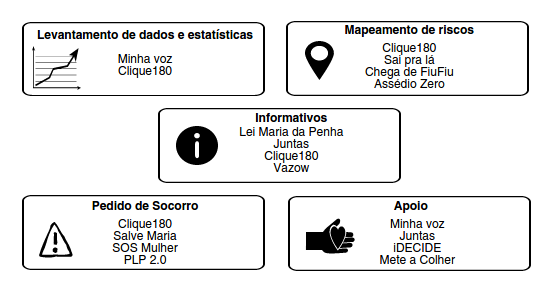
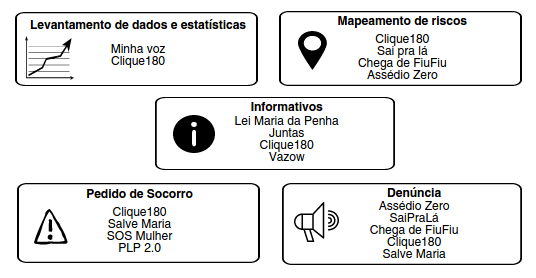
Adicionando capitulo sistemas relacionados

Changed region(s): [[0.0299, 0.0288, 0.9851, 0.9784]]

diff --git a/editaveis/sistemas_relacionados.tex b/editaveis/sistemas_relacionados.tex
@@ -1,0 +1,120 @@
+\chapter{Sistemas relacionados}
+
+Em uma geração dirigida pela tecnologia e engajamento em causas sociais é possível perceber que várias aplicações têm sido criadas em todo o mundo no cenário da violência contra a mulher.
+
+No Brasil, alguns aplicativos e sites surgiram como consequência de políticas públicas. Como o site Minha Voz \footnote{Minha Voz \url{http://minhavoz.com}} e os aplicativos Clique180, SalveMaria, SOSMulher e Lei Maria da Penha.
+
+Outros aplicativos e sites foram criados pela própria população, como: Vazow, Juntas, Chega de Fiufiu, 
+SaiPraLá, PLP 2.0, Assédio Zero e Mete a Colher.
+
+\section*{Minha Voz}
+
+Site criado no \textit{Hackathon} de Gênero e Cidadania, no qual
+um dos temas era "Violência Contra a Mulher". 
+
+De acordo com a documentação do site (disponível no GitHub\footnote{Repositório Minha Voz \url{https://github.com/saletefarias/Minha-Voz}}), o objetivo é ter um fórum para apoio às mulheres, no qual elas podem
+realizar desabafos e obter um panorama da violência contra a mulher através de um questionário
+disponível no site relacionando os dados por:
+
+\begin{itemize}
+	\item Categorias;
+	\item Locais;
+	\item Grau de Proximidade com o agressor;
+	\item Tempo de duração da violência;
+	\item Data.
+\end{itemize}
+
+O site também disponibiliza um questionário para que a mulher possa identificar a categoria (tipo) da violência sofrida, respondendo à perguntas pré-definidas com "Sim" ou "Não". Esse questionário é construído baseado em uma árvore de decisão.
+
+\vfill
+
+\section*{Clique180}
+
+Trata-se de um aplicativo para \textit{Android} criado pelo Onu Mulheres que, de acordo com
+a página de download\footnote{Clique180 \url{https://play.google.com/store/apps/details?id=br.com.negociosreais.sosmulher&hl=pt_BR}}, oferece:
+
+\begin{itemize}
+	\item Leis e conceitos;
+	\item Localização Rotas até os serviços da rede de atendimento às mulheres;
+	\item Botão para ligação para o 180;
+	\item Dicas de ações a serem tomadas e tipos de serviços a procurar; 
+	\item Mapeamento de locais de risco.
+\end{itemize}
+
+\section*{SalveMaria}
+
+Criado pelo governo do estado do Piauí, o SalveMaria\footnote{SalveMaria \url{https://play.google.com/store/apps/details?id=br.gov.pi.ati.salvemaria&hl=pt_BR}} é um aplicativo para envio de denúncias
+de forma sigilosa, informando o tipo de assédio sofrido.
+Além disso, conta com um Botão do Pânico que envia um pedido de socorro automaticamente para a polícia.
+
+\section*{SOSMulher}
+
+Aplicativo, criado pelo governo do estado do Pará, para mulheres que estão sob medida protetiva. 
+De acordo com notícia publicada\footnote{SOSMulher \url{http://g1.globo.com/pa/para/noticia/2016/03/aplicativo-sos-mulher-aciona-ajuda-em-caso-de-violencia-no-pa.html}}, o aplicativo é instalado no \textit{smartphone}, e quando a mulher está em situação de risco, por meio de três toques no aparelho, são enviadas notificações para a Central da Guarda Municipal.
+
+\section*{Lei Maria da Penha}
+
+Criado pelo Programa internacional de promoção da igualdade de gênero, raça e etnia, trata-se de um
+aplicativo que contém toda a Lei Maria da Penha.
+
+\section*{Vazow}
+
+Aplicativo para \textit{Android} para vítimas de vingança pornô, do inglês "revenge porn", que é a 
+divulgação de vídeos e/ou fotos íntimas após término.
+De acordo com a página de download\footnote{Vazow \url{https://play.google.com/store/apps/details?id=xdk.intel.blank.ad.template23&hl=pt_BR}}, as funcionalidades oferecidas são:
+
+\begin{itemize}
+	\item Procedimentos e orientações para exclusão de conteúdo íntimo divulgado;
+	\item Dicas de como evitar se tornar uma vítima;
+	\item Legislação relacionada;
+	\item Suporte para contato.
+\end{itemize}
+
+\section*{Juntas}
+
+O site Juntas é um blog que contém \textit{posts} informativos, conceituais e notícias 
+relacionadas ao cenário feminino no Brasil.
+
+\section*{Chega de Fiufiu}
+
+Um site no qual a mulher pode realizar uma denúncia de uma violência sofrida ou presenciada. 
+Essa denúncia é realizada informando o endereço, o tipo de violência sofrida, a data, período do dia e o que foi feito. De acordo com o site\footnote{Chega de Fiufiu \url{http://chegadefiufiu.com.br/}}, o objetivo é "mapear os lugares mais incômodos e até perigosos para mulheres no Brasil".
+
+\section*{SaiPraLá}
+
+Aplicativo para realização de uma denúncia de violência informando o endereço em que o assédio ocorreu, o período do dia, o tipo de assédio e o que foi feito. De acordo com a a página de download\footnote{SaiPraLá \url{https://play.google.com/store/apps/details?id=br.com.saiprala&hl=pt_BR}}, o objetivo é "mapear o assédio e atuar na prevenção dele".
+
+\section*{PLP 2.0}
+
+Aplicativo que possui um detector de emergência para acionar diretamente as redes de atendimento 
+e também realiza a gravação de áudios e vídeos\footnote{PLP 2.0 \url{https://play.google.com/store/apps/details?id=br.com.beelieve.plp&hl=pt_BR}}.
+
+\section*{Assédio Zero}
+
+Aplicativo para as mulheres denunciarem dois tipos de agressão: física ou verbal, marcando a localização 
+onde a violência ocorreu. Assim como os outros aplicativos de denúncia, o Assédio Zero\footnote{Assédio Zero \url{https://play.google.com/store/apps/details?id=br.com.assediozeroapp&hl=pt}} tem como objetivo mapear a violência contra a mulher.
+
+\section{Considerações finais}
+
+Considerando as informações de cada sistema, foi possível perceber que as aplicações têm funcionalidades
+em comum e assim estabelecer cinco categorias de funcionalidades: Levantamento de Dados e estatísticas, Mapeamento de riscos, Informativos , Pedido de Socorro e Denúncia. 
+
+Na categoria de Levantamento de Dados e estatísticas foram mapeadas as aplicações que possuem
+o intuito de obter dados estatísticos sobre a violência de acordo com as respostas/denúncias das mulheres.
+
+A categoria de Mapeamento de riscos também trata das aplicações que obtém os dados de violência através
+das respostas/denúncias das mulheres, porém com o objetivo de mostrá-las os locais de risco.
+
+As aplicações com funcionalidades relacionadas à disponibilização de leis, informações e conceitos foram
+categorizadas em Informativos.
+
+As aplicações com finalidade de pedido de socorro automático foram categorizadas em Pedido de Socorro. E por fim, na categoria de Denúncia, estão as aplicações que tem funcionalidade para realização de denúncias de violência
+
+Na Figura \ref{fig:sistemas_categorizados} é apresentado o mapeamento das aplicações com as categorias criadas.
+
+\begin{figure}[h!]
+\centering
+\includegraphics[scale=0.75]{figuras/sistemas_relacionados.png}
+\caption{Aplicações de apoio à mulher vítima de violência}
+\label{fig:sistemas_categorizados}
+\end{figure}

diff --git a/editaveis/api.tex b/editaveis/api.tex
@@ -7,12 +7,31 @@ aplicações, permitem a criação de novas aplicações e constituem a base par
 "Web como uma plataforma". 
 
 \citeonline{wagh2012comparative} afirmam que existem vários métodos para interação entre o  
-usuário e a Internet, através de serviços web (\textit{web services}), utilizando o conceito 
-de arquitetura orientada a serviços (SOA). Essa arquitetura permite que os componentes de 
+usuário e a Internet, através de serviços web (\textit{web services}). Essa arquitetura permite que os componentes de 
 software, o que inclui funções, objetos e processos de diferentes sistemas, sejam expostos 
 como um serviço.
 
 Para prover esses serviços através de uma API, podem ser utilizadas duas arquiteturas: SOAP ou REST.
+
+\section{\textit{Simple object access Protocol} (SOAP) }
+
+O protocolo SOAP é uma arquitetura de \textit{web service} baseada em três entidades: o provedor, o registrador e o consumidor do serviço. O provedor é entendido como o serviço endereçado na rede
+que aceita requisições. O consumidor é uma aplicação, serviço ou outro tipo de software que
+requisita um serviço e um registrador é um diretório na rede que contém os serviços disponíveis \cite{mumbaikar}.
+
+% colocar o significado de cada sigla.
+A comunicação é realizada através de mensagens trocadas via SMTP, FTP e HTTP. Cada mensagem 
+é composta por um "envelope", um cabeçalho e um conteúdo. As mensagens são enviadas em documentos XML
+que contém as mensagens e os métodos a serem chamados \cite{mumbaikar}. 
+Um serviço implementado com SOAP sempre retorna um documento XML \cite{wagh2012comparative}.
+
+% \citeonline{wagh2012comparative} afirma que as mensagens SOAP tem um conteúdo pesado e por
+% esse motivo não sendo sendo indicadas para dispositivos móveis.
+
+% PESQUISAR: Louridas, P. “SOAP and Web Services Software”, IEEE Volume: 23 ,
+% Issue: 6 Digital Object Identifier: 10.1109/MS.2006.172 Publication
+% Year: 2006 , Page(s): 62 - 67 Cited by: 2
+
 
 \section{\textit{Representational State Transfer} (REST) }
 

diff --git a/tcc.tex b/tcc.tex
@@ -12,18 +12,18 @@
 \imprimircapa
 \imprimirfolhaderosto*
 
-%\input{fixos/fichaCatalografica}
-%\input{editaveis/errata}
-%\input{fixos/folhaDeAprovacao}
-%\input{editaveis/dedicatoria}
-%\input{editaveis/agradecimentos}
-%\input{editaveis/epigrafe}
-%\input{editaveis/resumo}
-%\input{editaveis/abstract}
-%\input{fixos/listasAutomaticas}
-%\input{editaveis/abreviaturas}
-%\input{editaveis/simbolos}
-%\input{fixos/indiceAutomatico}
+% \input{fixos/fichaCatalografica}
+% \input{editaveis/errata}
+% \input{fixos/folhaDeAprovacao}
+% \input{editaveis/dedicatoria}
+% \input{editaveis/agradecimentos}
+% \input{editaveis/epigrafe}
+% \input{editaveis/resumo}
+% \input{editaveis/abstract}
+% \input{fixos/listasAutomaticas}
+% \input{editaveis/abreviaturas}
+% \input{editaveis/simbolos}
+% \input{fixos/indiceAutomatico}
 
 \textual
 
@@ -31,7 +31,8 @@
 % \input{editaveis/aspectosgerais}
 % \input{editaveis/consideracoes}
 % \input{editaveis/textoepostexto}
-\input{editaveis/capitulos/capitulo_1}
+\input{editaveis/sistemas_relacionados}
+\input{editaveis/api}
 % \input{editaveis/elementosdopostexto}
 
 \bookmarksetup{startatroot} 

diff --git a/editaveis/introducao.tex b/editaveis/introducao.tex
@@ -53,7 +53,7 @@ Para esse fim os objetivos específicos do trabalho são:
 
 \section{Metodologia}
 
-
+% LEVANTAMENTO DE SISTEMAS RELACIONADOS
 
 
 
